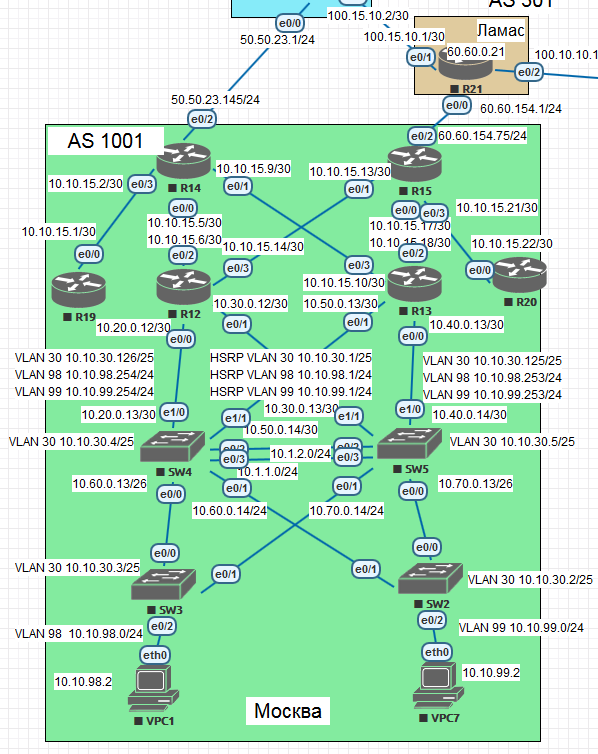
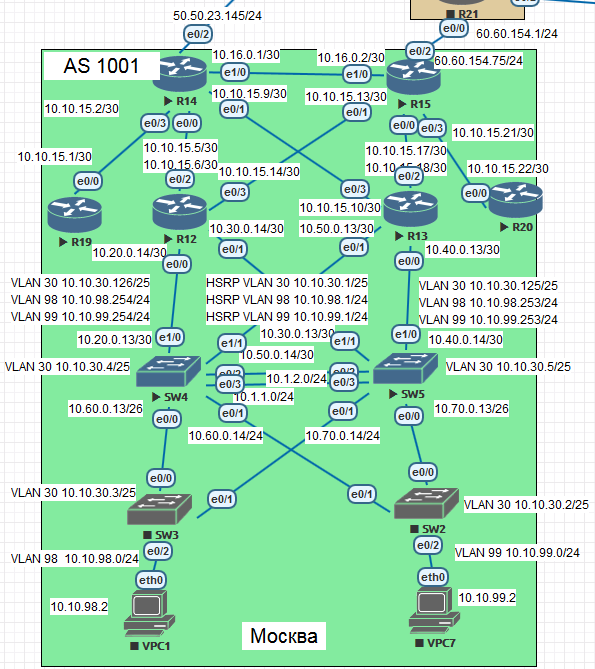
06-ospf 07-is-is

diff --git a/labs/06-ospf/README.md b/labs/06-ospf/README.md
@@ -13,24 +13,26 @@
 ### OSPF on R14 and R15 (area 0)
 ```
 router ospf 1
- router-id 14.14.14.14         
+ router-id 14.14.14.14
  area 10 stub
  area 101 stub no-summary
  passive-interface Ethernet0/2
- network 14.14.14.14 0.0.0.0 area 0
  network 10.10.15.0 0.0.0.3 area 101
- network 10.10.15.4 0.0.0.3 area 10
+ network 10.10.15.4 0.0.0.3 area 10                          
  network 10.10.15.8 0.0.0.3 area 10
+ network 10.16.0.0 0.0.0.3 area 0
+ network 50.50.23.0 0.0.0.255 area 0
 ```
 ```
 router ospf 1
  router-id 15.15.15.15
  area 10 stub
  area 102 filter-list prefix area102dead in
- network 10.10.15.0 0.0.0.3 area 10
  network 10.10.15.12 0.0.0.3 area 10
+ network 10.10.15.16 0.0.0.3 area 10
  network 10.10.15.20 0.0.0.3 area 102
- network 15.15.15.15 0.0.0.0 area 0
+ network 10.16.0.0 0.0.0.3 area 0
+ network 60.60.154.0 0.0.0.255 area 0
 ```
 
 ### R14 routing table
@@ -54,11 +56,10 @@ O        10.20.0.0/24 [110/20] via 10.10.15.6, 00:58:43, Ethernet0/0
 O        10.30.0.0/24 [110/20] via 10.10.15.6, 00:58:43, Ethernet0/0
 O        10.40.0.0/24 [110/20] via 10.10.15.10, 00:46:19, Ethernet0/1
 O        10.50.0.0/24 [110/20] via 10.10.15.10, 00:46:19, Ethernet0/1
-
 ```
 ### R15 routing table
 ```
-R15#show ip route ospf
+R15#sh ip route ospf
 Codes: L - local, C - connected, S - static, R - RIP, M - mobile, B - BGP
        D - EIGRP, EX - EIGRP external, O - OSPF, IA - OSPF inter area
        N1 - OSPF NSSA external type 1, N2 - OSPF NSSA external type 2
@@ -70,17 +71,16 @@ Codes: L - local, C - connected, S - static, R - RIP, M - mobile, B - BGP
 
 Gateway of last resort is 60.60.154.1 to network 0.0.0.0
 
-      10.0.0.0/8 is variably subnetted, 13 subnets, 3 masks
-O IA     10.10.15.0/30 [110/30] via 10.10.15.14, 00:01:05, Ethernet0/1
-O        10.10.15.4/30 [110/20] via 10.10.15.14, 00:01:05, Ethernet0/1
-O        10.10.15.8/30 [110/30] via 10.10.15.14, 00:01:05, Ethernet0/1
-O        10.20.0.0/24 [110/20] via 10.10.15.14, 00:01:05, Ethernet0/1
-O        10.30.0.0/24 [110/20] via 10.10.15.14, 00:01:05, Ethernet0/1
-O        10.40.0.0/24 [110/40] via 10.10.15.14, 00:01:05, Ethernet0/1
-O        10.50.0.0/24 [110/40] via 10.10.15.14, 00:01:05, Ethernet0/1
+      10.0.0.0/8 is variably subnetted, 15 subnets, 2 masks
+O IA     10.10.15.0/30 [110/20] via 10.16.0.1, 01:39:59, Ethernet1/0
+O        10.10.15.4/30 [110/20] via 10.10.15.14, 01:40:09, Ethernet0/1
+O        10.10.15.8/30 [110/20] via 10.10.15.18, 00:12:45, Ethernet0/0
+O        10.20.0.12/30 [110/20] via 10.10.15.14, 00:30:47, Ethernet0/1
+O        10.30.0.12/30 [110/20] via 10.10.15.14, 00:30:57, Ethernet0/1
+O        10.40.0.12/30 [110/20] via 10.10.15.18, 00:12:45, Ethernet0/0
+O        10.50.0.12/30 [110/20] via 10.10.15.18, 00:12:45, Ethernet0/0
       50.0.0.0/24 is subnetted, 1 subnets
-O IA     50.50.23.0 [110/30] via 10.10.15.14, 00:01:05, Ethernet0/1
-
+O        50.50.23.0 [110/20] via 10.16.0.1, 01:39:59, Ethernet1/0
 ```
 
 ### OSPF on R12 and R13 (area 10)
@@ -90,22 +90,22 @@ router ospf 1
  area 10 stub
  network 10.10.15.4 0.0.0.3 area 10
  network 10.10.15.12 0.0.0.3 area 10
- network 10.20.0.0 0.0.0.255 area 10
- network 10.30.0.0 0.0.0.255 area 10
+ network 10.20.0.12 0.0.0.3 area 10
+ network 10.30.0.12 0.0.0.3 area 10
 ```
 ```
 router ospf 1
  router-id 13.13.13.13
  area 10 stub
- network 10.10.15.16 0.0.0.3 area 10
  network 10.10.15.8 0.0.0.3 area 10
- network 10.50.0.0 0.0.0.255 area 10
- network 10.40.0.0 0.0.0.255 area 10
+ network 10.10.15.16 0.0.0.3 area 10
+ network 10.40.0.12 0.0.0.3 area 10
+ network 10.50.0.12 0.0.0.3 area 10
 ```
 
 ### R12 routing table
 ```
-R12#show ip route ospf
+R12#sh ip route ospf
 Codes: L - local, C - connected, S - static, R - RIP, M - mobile, B - BGP
        D - EIGRP, EX - EIGRP external, O - OSPF, IA - OSPF inter area
        N1 - OSPF NSSA external type 1, N2 - OSPF NSSA external type 2
@@ -117,24 +117,28 @@ Codes: L - local, C - connected, S - static, R - RIP, M - mobile, B - BGP
 
 Gateway of last resort is 10.10.15.13 to network 0.0.0.0
 
-O*IA  0.0.0.0/0 [110/11] via 10.10.15.13, 00:04:10, Ethernet0/3
-                [110/11] via 10.10.15.5, 01:06:18, Ethernet0/2
-      10.0.0.0/8 is variably subnetted, 14 subnets, 3 masks
-O IA     10.10.15.0/30 [110/20] via 10.10.15.5, 01:06:18, Ethernet0/2
-O        10.10.15.8/30 [110/20] via 10.10.15.5, 01:06:18, Ethernet0/2
-O        10.10.15.16/30 [110/30] via 10.10.15.5, 00:53:53, Ethernet0/2
-O IA     10.10.15.20/30 [110/20] via 10.10.15.13, 00:04:10, Ethernet0/3
-O        10.40.0.0/24 [110/30] via 10.10.15.5, 00:53:53, Ethernet0/2
-O        10.50.0.0/24 [110/30] via 10.10.15.5, 00:53:53, Ethernet0/2
+O*IA  0.0.0.0/0 [110/11] via 10.10.15.13, 01:43:31, Ethernet0/3
+                [110/11] via 10.10.15.5, 01:48:38, Ethernet0/2
+      10.0.0.0/8 is variably subnetted, 15 subnets, 2 masks
+O IA     10.10.15.0/30 [110/20] via 10.10.15.5, 01:46:35, Ethernet0/2
+O        10.10.15.8/30 [110/20] via 10.10.15.5, 01:47:54, Ethernet0/2
+O        10.10.15.16/30 [110/20] via 10.10.15.13, 00:16:12, Ethernet0/3
+O IA     10.10.15.20/30 [110/20] via 10.10.15.13, 01:43:31, Ethernet0/3
+O IA     10.16.0.0/30 [110/20] via 10.10.15.13, 01:43:26, Ethernet0/3
+                      [110/20] via 10.10.15.5, 01:48:38, Ethernet0/2
+O        10.40.0.12/30 [110/30] via 10.10.15.13, 00:16:12, Ethernet0/3
+                       [110/30] via 10.10.15.5, 00:36:35, Ethernet0/2
+O        10.50.0.12/30 [110/30] via 10.10.15.13, 00:16:12, Ethernet0/3
+                       [110/30] via 10.10.15.5, 00:36:48, Ethernet0/2
       50.0.0.0/24 is subnetted, 1 subnets
-O IA     50.50.23.0 [110/20] via 10.10.15.5, 01:06:18, Ethernet0/2
+O IA     50.50.23.0 [110/20] via 10.10.15.5, 01:48:38, Ethernet0/2
       60.0.0.0/24 is subnetted, 1 subnets
-O IA     60.60.154.0 [110/20] via 10.10.15.13, 00:04:06, Ethernet0/3
+O IA     60.60.154.0 [110/20] via 10.10.15.13, 00:10:50, Ethernet0/3
 ```
 
 ### R13 routing table
 ```
-R13#show ip route ospf
+R13#sh ip route ospf
 Codes: L - local, C - connected, S - static, R - RIP, M - mobile, B - BGP
        D - EIGRP, EX - EIGRP external, O - OSPF, IA - OSPF inter area
        N1 - OSPF NSSA external type 1, N2 - OSPF NSSA external type 2
@@ -144,20 +148,25 @@ Codes: L - local, C - connected, S - static, R - RIP, M - mobile, B - BGP
        o - ODR, P - periodic downloaded static route, H - NHRP, l - LISP
        + - replicated route, % - next hop override
 
-Gateway of last resort is 10.10.15.9 to network 0.0.0.0
+Gateway of last resort is 10.10.15.17 to network 0.0.0.0
 
-O*IA  0.0.0.0/0 [110/11] via 10.10.15.9, 00:52:24, Ethernet0/3
-      10.0.0.0/8 is variably subnetted, 14 subnets, 3 masks
-O IA     10.10.15.0/30 [110/20] via 10.10.15.9, 00:52:24, Ethernet0/3
-O        10.10.15.4/30 [110/20] via 10.10.15.9, 00:52:24, Ethernet0/3
-O        10.10.15.12/30 [110/30] via 10.10.15.9, 00:52:24, Ethernet0/3
-O IA     10.10.15.20/30 [110/40] via 10.10.15.9, 00:02:41, Ethernet0/3
-O        10.20.0.0/24 [110/30] via 10.10.15.9, 00:52:24, Ethernet0/3
-O        10.30.0.0/24 [110/30] via 10.10.15.9, 00:52:24, Ethernet0/3
+O*IA  0.0.0.0/0 [110/11] via 10.10.15.17, 00:17:17, Ethernet0/2
+                [110/11] via 10.10.15.9, 01:49:03, Ethernet0/3
+      10.0.0.0/8 is variably subnetted, 15 subnets, 2 masks
+O IA     10.10.15.0/30 [110/20] via 10.10.15.9, 01:47:40, Ethernet0/3
+O        10.10.15.4/30 [110/20] via 10.10.15.9, 01:49:03, Ethernet0/3
+O        10.10.15.12/30 [110/20] via 10.10.15.17, 00:17:17, Ethernet0/2
+O IA     10.10.15.20/30 [110/20] via 10.10.15.17, 00:17:17, Ethernet0/2
+O IA     10.16.0.0/30 [110/20] via 10.10.15.17, 00:17:17, Ethernet0/2
+                      [110/20] via 10.10.15.9, 01:49:03, Ethernet0/3
+O        10.20.0.12/30 [110/30] via 10.10.15.17, 00:17:17, Ethernet0/2
+                       [110/30] via 10.10.15.9, 00:35:19, Ethernet0/3
+O        10.30.0.12/30 [110/30] via 10.10.15.17, 00:17:17, Ethernet0/2
+                       [110/30] via 10.10.15.9, 00:35:29, Ethernet0/3
       50.0.0.0/24 is subnetted, 1 subnets
-O IA     50.50.23.0 [110/20] via 10.10.15.9, 00:52:24, Ethernet0/3
+O IA     50.50.23.0 [110/20] via 10.10.15.9, 01:49:03, Ethernet0/3
       60.0.0.0/24 is subnetted, 1 subnets
-O IA     60.60.154.0 [110/40] via 10.10.15.9, 00:02:37, Ethernet0/3
+O IA     60.60.154.0 [110/20] via 10.10.15.17, 00:11:55, Ethernet0/2
 ```
 
 ### OSPF on SW4-L3 and SW5-L3 (area 10)
@@ -190,72 +199,12 @@ router ospf 1
 
 ### SW4 routing table
 ```
-R12#show ip route ospf
-Codes: L - local, C - connected, S - static, R - RIP, M - mobile, B - BGP
-       D - EIGRP, EX - EIGRP external, O - OSPF, IA - OSPF inter area 
-       N1 - OSPF NSSA external type 1, N2 - OSPF NSSA external type 2
-       E1 - OSPF external type 1, E2 - OSPF external type 2
-       i - IS-IS, su - IS-IS summary, L1 - IS-IS level-1, L2 - IS-IS level-2
-       ia - IS-IS inter area, * - candidate default, U - per-user static route
-       o - ODR, P - periodic downloaded static route, H - NHRP, l - LISP
-       a - application route
-       + - replicated route, % - next hop override
-
-Gateway of last resort is 10.50.0.14 to network 0.0.0.0
-
-O*IA  0.0.0.0/0 [110/21] via 10.50.0.14, 13:18:46, Ethernet1/1
-                [110/21] via 10.20.0.13, 13:18:36, Ethernet1/0
-      14.0.0.0/32 is subnetted, 1 subnets
-O IA     14.14.14.14 [110/21] via 10.50.0.14, 13:18:46, Ethernet1/1
-                     [110/21] via 10.20.0.13, 13:18:36, Ethernet1/0
-      15.0.0.0/32 is subnetted, 1 subnets
-O IA     15.15.15.15 [110/21] via 10.50.0.14, 13:18:46, Ethernet1/1
-                     [110/21] via 10.20.0.13, 13:18:36, Ethernet1/0
-      10.0.0.0/8 is variably subnetted, 17 subnets, 4 masks
-O IA     10.10.15.0/30 [110/30] via 10.50.0.14, 13:18:46, Ethernet1/1
-                      [110/30] via 10.20.0.13, 13:18:36, Ethernet1/0
-O        10.10.15.4/30 [110/20] via 10.20.0.13, 13:18:36, Ethernet1/0
-O        10.10.15.8/30 [110/20] via 10.50.0.14, 13:18:46, Ethernet1/1
-O        10.10.15.1/30 [110/20] via 10.50.0.14, 13:18:46, Ethernet1/1
-O IA     10.15.15.20/30 [110/30] via 10.50.0.14, 13:18:46, Ethernet1/1
-                       [110/30] via 10.20.0.13, 13:18:36, Ethernet1/0
-O        10.30.0.12/30 [110/20] via 10.20.0.13, 13:18:36, Ethernet1/0
-O        10.40.0.12/30 [110/20] via 10.50.0.14, 13:18:46, Ethernet1/1
+R12#sh ip route ospf
 ```
 
 ### SW5 routing table
 ```
-R13#show ip route ospf
-Codes: L - local, C - connected, S - static, R - RIP, M - mobile, B - BGP
-       D - EIGRP, EX - EIGRP external, O - OSPF, IA - OSPF inter area 
-       N1 - OSPF NSSA external type 1, N2 - OSPF NSSA external type 2
-       E1 - OSPF external type 1, E2 - OSPF external type 2
-       i - IS-IS, su - IS-IS summary, L1 - IS-IS level-1, L2 - IS-IS level-2
-       ia - IS-IS inter area, * - candidate default, U - per-user static route
-       o - ODR, P - periodic downloaded static route, H - NHRP, l - LISP
-       a - application route
-       + - replicated route, % - next hop override
-
-Gateway of last resort is 10.40.0.14 to network 0.0.0.0
-
-O*IA  0.0.0.0/0 [110/21] via 10.40.0.14, 13:19:24, Ethernet1/0
-                [110/21] via 10.30.0.13, 13:19:14, Ethernet1/1
-      14.0.0.0/32 is subnetted, 1 subnets
-O IA     14.14.14.14 [110/21] via 10.40.0.14, 13:19:24, Ethernet1/0
-                     [110/21] via 10.30.0.13, 13:19:14, Ethernet1/1
-      15.0.0.0/32 is subnetted, 1 subnets
-O IA     15.15.15.15 [110/21] via 10.40.0.14, 13:19:24, Ethernet1/0
-                     [110/21] via 10.30.0.13, 13:19:14, Ethernet1/1
-      10.0.0.0/8 is variably subnetted, 17 subnets, 4 masks
-O IA     10.10.15.0/30 [110/30] via 10.40.0.14, 13:19:24, Ethernet1/0
-                      [110/30] via 10.30.0.13, 13:19:14, Ethernet1/1
-O        10.10.15.4/30 [110/20] via 10.30.0.13, 13:19:14, Ethernet1/1
-O        10.10.15.8/30 [110/20] via 10.40.0.14, 13:19:24, Ethernet1/0
-O        10.10.15.16/30 [110/20] via 10.40.0.14, 13:19:24, Ethernet1/0
-O IA     10.10.15.20/30 [110/30] via 10.30.0.13, 13:19:24, Ethernet1/0
-                       [110/30] via 10.40.0.14, 13:19:14, Ethernet1/1
-O        10.20.0.12/30 [110/20] via 10.30.0.13, 13:19:14, Ethernet1/1
-O        10.50.0.12/30 [110/20] via 10.40.0.13, 13:19:24, Ethernet1/0
+R13#sh ip route ospf
 ```
 
 ### OSPF on R19 (area 101) and R20 (area 102)
@@ -267,14 +216,14 @@ router ospf 1
 ```
 ```
 router ospf 1
- area 102 stub
  router-id 20.20.20.20
+ area 102 stub
  network 10.10.15.20 0.0.0.3 area 102
 ```
 
 ### R19 routing table
 ```
-R12#show ip route ospf
+R12#sh ip route ospf
 Codes: L - local, C - connected, S - static, R - RIP, M - mobile, B - BGP
        D - EIGRP, EX - EIGRP external, O - OSPF, IA - OSPF inter area
        N1 - OSPF NSSA external type 1, N2 - OSPF NSSA external type 2
@@ -286,34 +235,10 @@ Codes: L - local, C - connected, S - static, R - RIP, M - mobile, B - BGP
 
 Gateway of last resort is 10.10.15.2 to network 0.0.0.0
 
-O*IA  0.0.0.0/0 [110/11] via 10.10.15.2, 01:23:15, Ethernet0/0
+O*IA  0.0.0.0/0 [110/11] via 10.10.15.2, 01:56:09, Ethernet0/0
 ```
 
 ### R20 routing table
 ```
-R13#show ip route ospf
-Codes: L - local, C - connected, S - static, R - RIP, M - mobile, B - BGP
-       D - EIGRP, EX - EIGRP external, O - OSPF, IA - OSPF inter area
-       N1 - OSPF NSSA external type 1, N2 - OSPF NSSA external type 2
-       E1 - OSPF external type 1, E2 - OSPF external type 2
-       i - IS-IS, su - IS-IS summary, L1 - IS-IS level-1, L2 - IS-IS level-2
-       ia - IS-IS inter area, * - candidate default, U - per-user static route
-       o - ODR, P - periodic downloaded static route, H - NHRP, l - LISP
-       + - replicated route, % - next hop override
-
-Gateway of last resort is not set
-
-      10.0.0.0/8 is variably subnetted, 11 subnets, 4 masks
-O IA     10.10.15.4/30 [110/30] via 10.10.15.21, 01:21:57, Ethernet0/0
-O IA     10.10.15.8/30 [110/30] via 10.10.15.21, 01:21:57, Ethernet0/0
-O IA     10.10.15.16/30 [110/20] via 10.10.15.21, 01:21:57, Ethernet0/0
-C        10.10.15.21/30 is directly connected, Ethernet0/0
-L        10.10.15.20/32 is directly connected, Ethernet0/0
-O IA     10.20.0.12/30 [110/30] via 10.10.15.21, 01:21:57, Ethernet0/0
-O IA     10.30.0.12/30 [110/30] via 10.10.15.21, 01:21:57, Ethernet0/0
-O IA     10.50.0.12/30 [110/30] via 10.10.15.21, 01:21:57, Ethernet0/0
-O IA     10.40.0.12/30 [110/30] via 10.10.15.21, 01:21:57, Ethernet0/0
-O IA     10.70.0.12/26 [110/31] via 10.10.15.21, 01:21:57, Ethernet0/0
-O IA     10.10.98.0/25 [110/31] via 10.10.15.21, 01:21:57, Ethernet0/0
-O IA     10.10.99.0/24 [110/31] via 10.10.15.21, 01:21:57, Ethernet0/0
+R13#sh
 ```

diff --git a/labs/04-ipv46-planing/README.md b/labs/04-ipv46-planing/README.md
@@ -26,8 +26,8 @@
 | R15          | e0/1       | 10.10.15.13   | 255.255.255.252 |            | 2001:1001:0:4::1       | /64          |                     | FE80::1500/10 |
 | R15          | e0/3       | 10.10.15.21   | 255.255.255.252 |            | 2001:1001:0:6::1       | /64          |                     | FE80::1500/10 |
 | R12          | Lo1        | 10.10.0.12    | 255.255.255.255 |            | 2001:1001:1000::12     | /128         |                     | FE80::1200/10 |
-| R12          | e0/0       | 10.20.0.12    | 255.255.255.252 |            | 2001:1001:0:0::2       | /64          |                     | FE80::1200/10 |
-| R12          | e0/1       | 10.30.0.12    | 255.255.255.252 |            | 2001:1001:0:1::2       | /64          |                     | FE80::1200/10 | 
+| R12          | e0/0       | 10.20.0.14    | 255.255.255.252 |            | 2001:1001:0:0::2       | /64          |                     | FE80::1200/10 |
+| R12          | e0/1       | 10.30.0.14    | 255.255.255.252 |            | 2001:1001:0:1::2       | /64          |                     | FE80::1200/10 | 
 | R12          | e0/2       | 10.10.15.6    | 255.255.255.252 |            | 2001:1001:0:2::2       | /64          |                     | FE80::1200/10 |
 | R12          | e0/3       | 10.10.15.14   | 255.255.255.252 |            | 2001:1001:0:4::2       | /64          |                     | FE80::1200/10 |
 | R12          | VLAN98     | 10.10.98.254  | 255.255.255.0   |            | 2001:1001:0:1000::1000 | /64          |                     | FE80::1200/10 |
